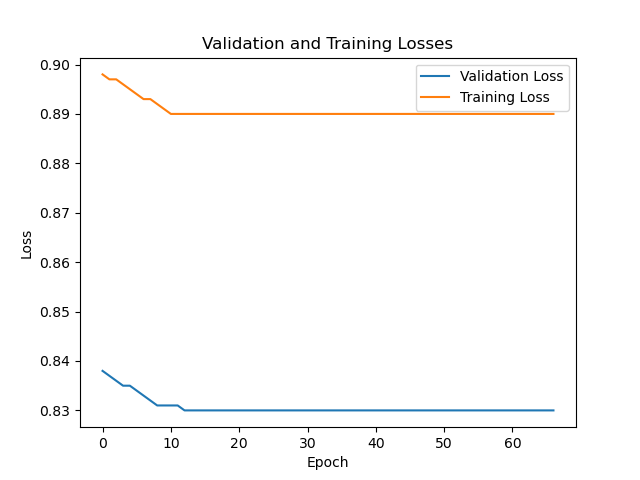
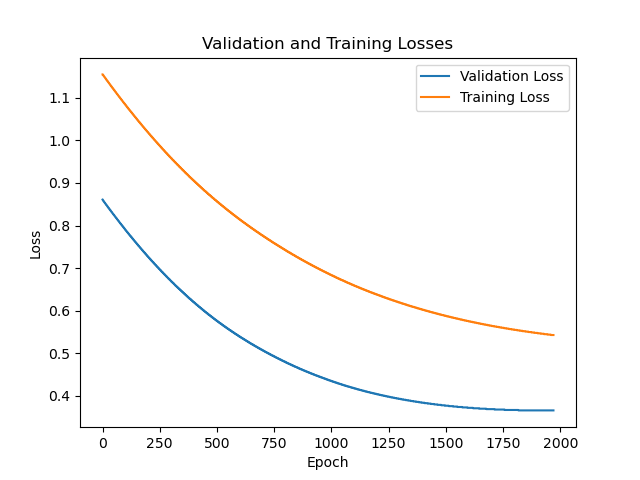
yes

diff --git a/RNNnobatch.py b/RNNnobatch.py
@@ -10,11 +10,17 @@ from torch import nn
 from torch.optim import Adam
 import csv
 import matplotlib.pyplot as plt
-from scipy.interpolate import interp1d
 from sklearn.utils import resample
 
-# Function to set the device to CUDA if available
-# Check that MPS is available
+class LogCoshLoss(nn.Module):
+    def __init__(self):
+        super(LogCoshLoss, self).__init__()
+
+    def forward(self, true, pred):
+        loss = torch.log(torch.cosh(pred - true))
+        return torch.mean(loss)
+
+
 if not torch.backends.mps.is_available():
     if not torch.backends.mps.is_built():
         print("MPS not available because the current PyTorch install was not "
@@ -31,10 +37,9 @@ else:
 
 
 l_rate = 0.001
-hidden_size = 1
-# 1 to 60 time steps
+hidden_size = 16
 time_steps = [60]
-epochs = 2500
+epochs = 10000
 patience = 10
 agent_type = 'strong'
 
@@ -140,19 +145,6 @@ def get_XY(states, time_steps=1):
         Y.append(states[i + time_steps])
     return np.array(X), np.array(Y)
 
-# def impute_missing_values(states):
-#     imputed_states = []
-#     for state in states:
-#         mean_values = np.mean([v for v in state if v >= 0])
-#         imputed_state = np.array([v if v >= 0 else mean_values for v in state])
-#         imputed_states.append(imputed_state)
-#     return np.array(imputed_states)
-#
-# def imv(state):
-#     mean_value = np.mean([v for v in state if v >= 0])
-#     imputed_state = np.array([v if v >= 0 else mean_value for v in state])
-#     return imputed_state
-
 def impute_missing_values(states):
     # median impuation
     imputed_states = []
@@ -168,53 +160,78 @@ def imv(state):
     return imputed_state
 
 
+def verify_labels(train_data, train_labels, balanced_train_data, balanced_train_labels):
+    # Label Consistency
+    # print("First instance before balancing: ", train_data[0], "Label: ", train_labels[0])
+    # print("First instance after balancing: ", balanced_train_data[0], "Label: ", balanced_train_labels[0])
+
+    # Label Distribution
+    print("Label distribution before balancing: ", get_class_distribution(train_labels))
+    print("Label distribution after balancing: ", get_class_distribution(balanced_train_labels))
+
+    # Number of Labels
+    print("Number of instances and labels before balancing: ", len(train_data), len(train_labels))
+    print("Number of instances and labels after balancing: ", len(balanced_train_data), len(balanced_train_labels))
+
+    # Unique Labels
+    print("Unique labels before balancing: ", np.unique(train_labels))
+    print("Unique labels after balancing: ", np.unique(balanced_train_labels))
+
+
 def get_class_distribution(labels):
-    # Convert one-hot encoded labels to integer labels
-    int_labels = np.argmax(labels, axis=1)
-    return np.bincount(int_labels)
+    labels_argmax = np.argmax(labels, axis=1)
+    hist, bin_edges = np.histogram(labels_argmax, bins=range(labels_argmax.max()+2))
+    return hist
 
-
-def upsample_classes(train_data, train_labels):
+def balance_classes(train_data, train_labels):
     classes = np.unique(train_labels)
-    upsampled_train_data = []
-    upsampled_train_labels = []
-
+    balanced_train_data = []
+    balanced_train_labels = []
     # Get the distribution of classes
     class_distribution = get_class_distribution(train_labels)
 
-    print("Distribution of classes before balancing:", class_distribution)
-
     # Set the target number of samples to be the maximum count among all classes
-    target_samples = np.max(class_distribution)
+    max_samples = np.max(class_distribution)
 
     for cls in classes:
         class_idx = np.where(train_labels == cls)[0]
         class_data = train_data[class_idx]
         class_labels = train_labels[class_idx]
 
-        if len(class_data) < target_samples:
+        if len(class_data) > max_samples:
             class_data, class_labels = resample(class_data, class_labels,
-                                                replace=True,  # sample with replacement
-                                                n_samples=target_samples,  # to match majority class
-                                                random_state=123)  # reproducible results
+                                                replace=False,
+                                                n_samples=max_samples,
+                                                random_state=42)
 
-        upsampled_train_data.append(class_data)
-        upsampled_train_labels.append(class_labels)
+        balanced_train_data.append(class_data)
+        balanced_train_labels.append(class_labels)
 
-    upsampled_train_labels = np.concatenate(upsampled_train_labels)
+    balanced_train_data, balanced_train_labels = np.concatenate(balanced_train_data), np.concatenate(balanced_train_labels)
 
-    print("Distribution of classes after balancing:", get_class_distribution(upsampled_train_labels))
+    print("Distribution of classes after balancing:", get_class_distribution(balanced_train_labels))
 
-    return np.concatenate(upsampled_train_data), upsampled_train_labels
+    # Shuffle data
+    shuffle_indices = np.random.permutation(len(balanced_train_data))
+    balanced_train_data = balanced_train_data[shuffle_indices]
+    balanced_train_labels = balanced_train_labels[shuffle_indices]
+
+    verify_labels(train_data, train_labels, balanced_train_data, balanced_train_labels)
+
+    return balanced_train_data, balanced_train_labels
+
 
 if __name__ == '__main__':
-    inp1 = int(input("1. MSE\n2. MAE \n3. Huber\n"))
+    inp1 = int(input("1. MSE\n2. MAE \n3. Huber\n 4. LogCosh"))
     if inp1 == 1:
         criterion = nn.MSELoss()
     if inp1 == 2:
         criterion = nn.L1Loss()
     if inp1 == 3:
         criterion = nn.HuberLoss()
+    if inp1 == 4:
+        criterion = LogCoshLoss()
+
 
     np.random.seed(0)
 
@@ -234,13 +251,10 @@ if __name__ == '__main__':
     lstm_agent = LSTM_Agent(input_size, hidden_size, output_size).to(device)
     optimizer = Adam(lstm_agent.parameters(), lr=l_rate)
 
-    # Learning rate scheduler
-    # scheduler = torch.optim.lr_scheduler.StepLR(optimizer, step_size=10,gamma=0.1)
-
     for ts in time_steps:
         # Use the function on your data
         trainX, trainY = get_XY(train_data, ts)
-        trainX, trainY = upsample_classes(trainX, trainY)
+        trainX, trainY = balance_classes(trainX, trainY)
 
         testX, testY = get_XY(test_data, ts)
         trainX = torch.tensor(trainX, dtype=torch.float32).to(device)
@@ -262,7 +276,6 @@ if __name__ == '__main__':
             loss.backward()
 
             optimizer.step()
-            # scheduler.step()
 
             # Validation
             val_outputs, (_, _) = lstm_agent(testX,
@@ -304,7 +317,7 @@ if __name__ == '__main__':
 
         inference_times = []
 
-
+        reward_on_time = []
         for t in tqdm(range(env.length), initial=2):
             # Prepare the input state for the LSTM agent
             # print(state)
@@ -329,6 +342,7 @@ if __name__ == '__main__':
 
             # Perform the action in the environment
             reward, state, stop = env.step(action)
+            reward_on_time.append(reward)
             state = impute_missing_values([state])[0]
 
 
@@ -374,6 +388,15 @@ if __name__ == '__main__':
         plt.title('Validation and Training Losses')
 
         plt.savefig('losses.png')
+        #plt.show()
+
+        # plot the reward on time
+        plt.plot(range(len(reward_on_time)), reward_on_time)
+        plt.xlabel('Time')
+        plt.ylabel('Reward')
+        plt.title('Reward on time')
+
+        plt.savefig('reward_on_time.png')
         plt.show()
 
 

diff --git a/UCBtest.py b/UCBtest.py
@@ -2,6 +2,7 @@ import csv
 
 import numpy as np
 import matplotlib.pyplot as plt
+import pandas as pd
 from tqdm import tqdm
 from rofarsEnv import ROFARS_v1
 from agents import SlidingWindowUCBAgent, UCBAgent, DiscountedUCBAgent, baselineAgent
@@ -392,6 +393,15 @@ def robustness_test(agent_type, budget_ratios):
 #     budget_ratios, rewards_simple_baseline = robustness_test(4, budget_ratios)
 #     budget_ratios, rewards_strong_baseline = robustness_test(5, budget_ratios)
 #
+#     # save results to csv
+#     df = pd.DataFrame({'budget_ratios': budget_ratios,
+#                           'rewards_ucb1': rewards_ucb1,
+#                             'rewards_sw_ucb': rewards_sw_ucb,
+#                             'rewards_d_ucb': rewards_d_ucb,
+#                             'rewards_simple_baseline': rewards_simple_baseline,
+#                             'rewards_strong_baseline': rewards_strong_baseline})
+#     df.to_csv('robustness_test.csv', index=False)
+#
 #
 #     # Plot the results
 #     plt.figure(figsize=(8, 6))
@@ -418,49 +428,49 @@ def robustness_test(agent_type, budget_ratios):
 #     plt.show()
 
 
-if __name__ == '__main__':
-    print("Enter the agent you want to test: ")
-    inp = int(input('1. UCB-1 \n2. SW-UCB \n3. D-UCB\n4. Time experiment\n'))
-    if inp == 1:
-        SWUCBOpt(1)
-    elif inp == 2:
-        inp2 = int(input('Find optimal window size? (1. Yes, 2. No)'))
-        if inp2 == 1:
-            SWUCBExperiment()
-        elif inp2 == 2:
-            SWUCBOpt(2)
-    elif inp == 3:
-        inp2 = int(input('Find optimal gamma? (1. Yes, 2. No)'))
-        if inp2 == 1:
-            DiscountedUCBExperiment()
-        elif inp2 == 2:
-            SWUCBOpt(3)
-    elif inp == 4:
-        sw_ucb_inference_times = timeexperiment(2)
-        ucb1_inference_times = timeexperiment(1)
-        d_ucb_inference_times = timeexperiment(3)
-
-        # Plot the average inference times for each agent as a bar plot
-        agents = ['SW-UCB', 'UCB-1', 'D-UCB']
-        avg_inference_times = [sw_ucb_inference_times, ucb1_inference_times,
-                               d_ucb_inference_times]
-
-        print(avg_inference_times)
-
-        # Black and white color palette
-        colors = ['#333333', '#666666', '#999999']
-
-        plt.bar(agents, avg_inference_times, color=colors, edgecolor='black',
-                linewidth=1)
-        plt.xlabel('Agent', fontsize=12)
-        plt.ylabel('Average Inference Time (ms)', fontsize=10)
-        plt.title(
-            'Average Inference Time for SW-UCB, UCB-1, and D-UCB during Training',
-            fontsize=10)
-        plt.grid(axis='y', linestyle='--', alpha=0.7)
-        plt.tight_layout()
-        plt.savefig('UCB_AverageInferenceTime_Training_BW_ms.png')
-        plt.show()
+# if __name__ == '__main__':
+#     print("Enter the agent you want to test: ")
+#     inp = int(input('1. UCB-1 \n2. SW-UCB \n3. D-UCB\n4. Time experiment\n'))
+#     if inp == 1:
+#         SWUCBOpt(1)
+#     elif inp == 2:
+#         inp2 = int(input('Find optimal window size? (1. Yes, 2. No)'))
+#         if inp2 == 1:
+#             SWUCBExperiment()
+#         elif inp2 == 2:
+#             SWUCBOpt(2)
+#     elif inp == 3:
+#         inp2 = int(input('Find optimal gamma? (1. Yes, 2. No)'))
+#         if inp2 == 1:
+#             DiscountedUCBExperiment()
+#         elif inp2 == 2:
+#             SWUCBOpt(3)
+#     elif inp == 4:
+#         sw_ucb_inference_times = timeexperiment(2)
+#         ucb1_inference_times = timeexperiment(1)
+#         d_ucb_inference_times = timeexperiment(3)
+#
+#         # Plot the average inference times for each agent as a bar plot
+#         agents = ['SW-UCB', 'UCB-1', 'D-UCB']
+#         avg_inference_times = [sw_ucb_inference_times, ucb1_inference_times,
+#                                d_ucb_inference_times]
+#
+#         print(avg_inference_times)
+#
+#         # Black and white color palette
+#         colors = ['#333333', '#666666', '#999999']
+#
+#         plt.bar(agents, avg_inference_times, color=colors, edgecolor='black',
+#                 linewidth=1)
+#         plt.xlabel('Agent', fontsize=12)
+#         plt.ylabel('Average Inference Time (ms)', fontsize=10)
+#         plt.title(
+#             'Average Inference Time for SW-UCB, UCB-1, and D-UCB during Training',
+#             fontsize=10)
+#         plt.grid(axis='y', linestyle='--', alpha=0.7)
+#         plt.tight_layout()
+#         plt.savefig('UCB_AverageInferenceTime_Training_BW_ms.png')
+#         plt.show()
 
 """
 Baseline:
